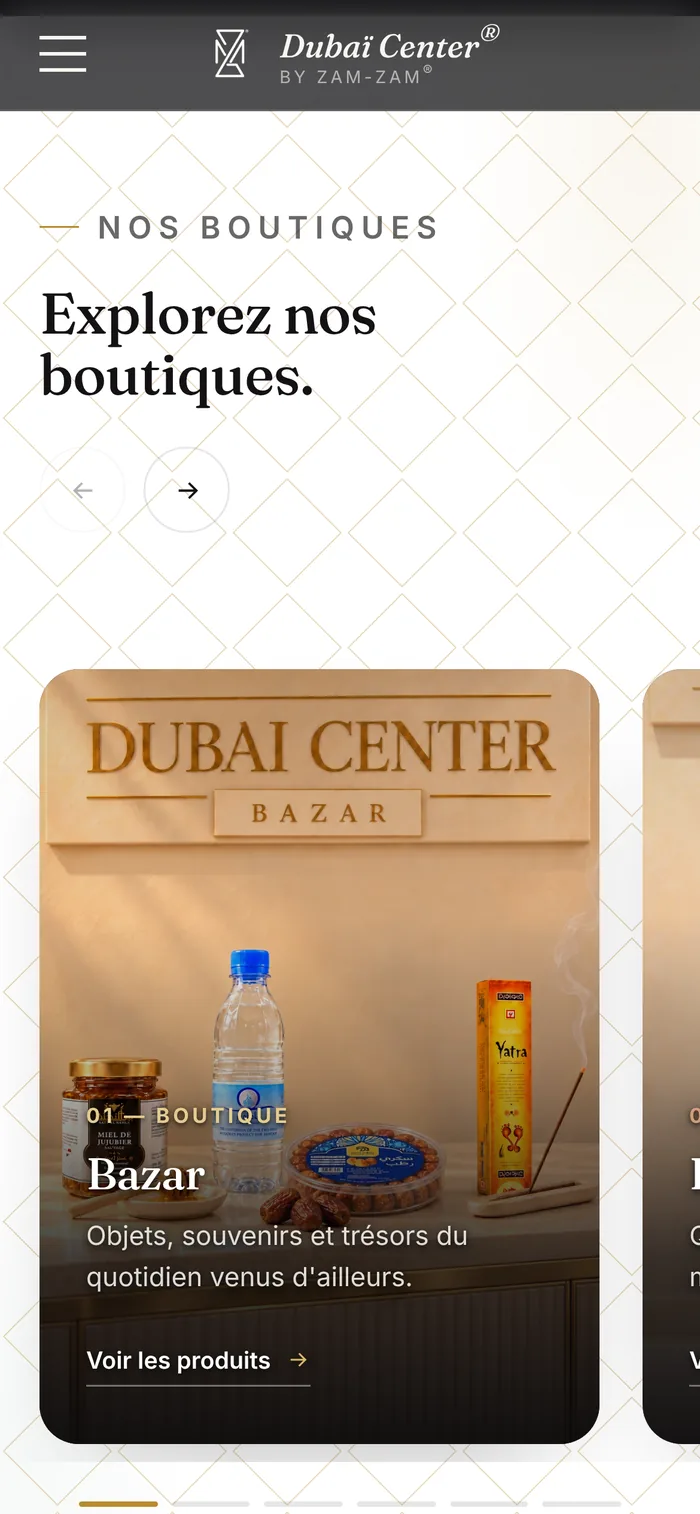
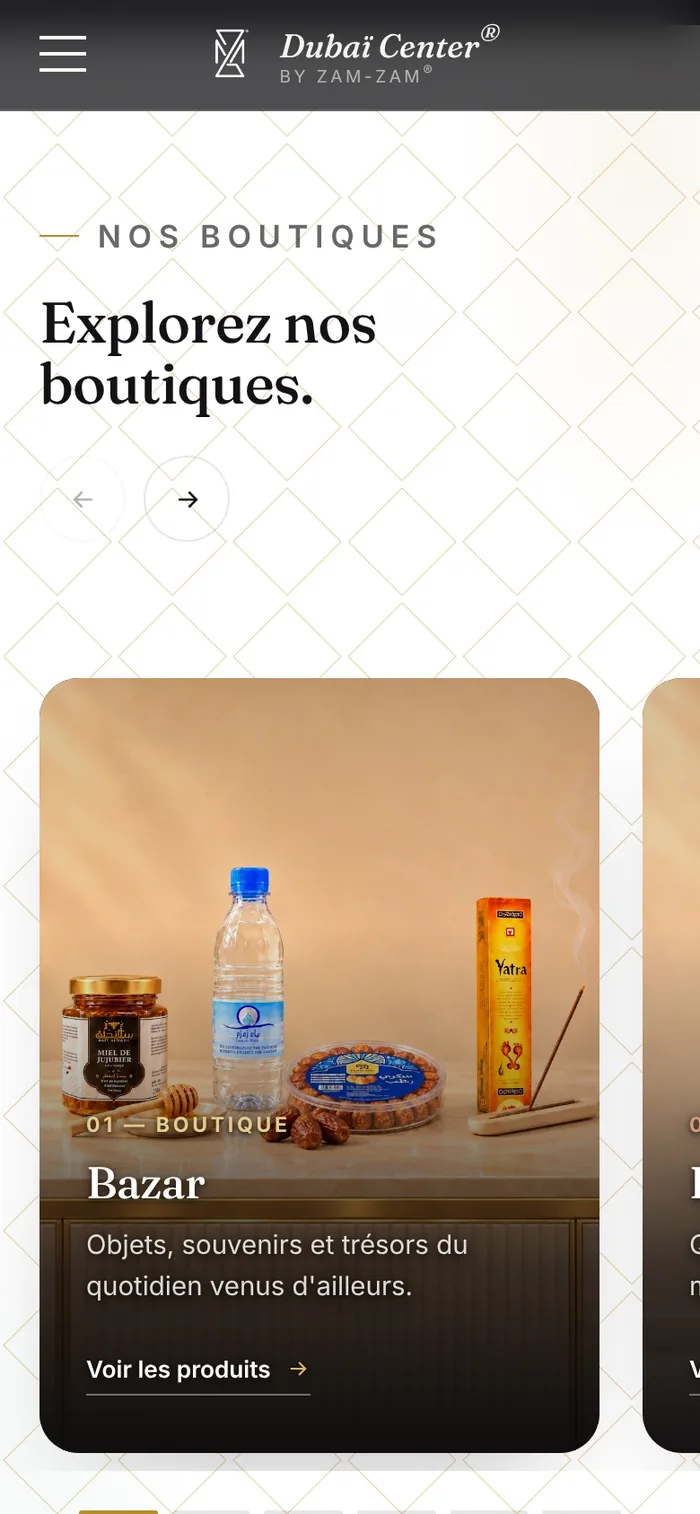
Atelier Heure card in light, new Dubaï Center capture, versioned CSS/JS (#32)
- The Atelier Heure card turns light like Maison Sable (porcelain
  #efece6, ink text, bronze amber #a3510b at 4.8:1), so the projects
  section has two dark cards and two light ones. The site screenshot
  keeps its dark browser frame.
- dc-m-boutiques.webp is recaptured from the Dubaï Center site with the
  retouched boutique photos (same framing, 700x1514).
- The pages now load home.css/home.js and main.css/main.js with a
  ?v=20261120 suffix, so a browser that fetches a new page cannot reuse
  styles cached from before an update.

The "Voir le site" button is in every card at 1920, 1536, 1440, 1366,
1280, 1024, 820, 768 and 390 px wide.

Claude-Session: https://claude.ai/code/session_01EUDBSK1QjmhVuumJZYRJZB

diff --git a/index.html b/index.html
@@ -22,7 +22,7 @@
 <link rel="preconnect" href="https://fonts.gstatic.com" crossorigin>
 <link rel="stylesheet" href="https://fonts.googleapis.com/css2?family=Instrument+Serif:ital@0;1&family=Inter+Tight:wght@400;500;600;700&display=swap">
 <link rel="preload" as="image" href="assets/img/portrait.webp" type="image/webp">
-<link rel="stylesheet" href="assets/css/home.css">
+<link rel="stylesheet" href="assets/css/home.css?v=20261120">
 <script type="application/ld+json">
 {"@context":"https://schema.org","@type":"Person","name":"Ouweis Mansouri","jobTitle":"Chargé de marketing digital & web designer","url":"https://ouweisbts.github.io/Ouweismansouri/","email":"mailto:mansouriouweis@gmail.com","address":{"@type":"PostalAddress","addressLocality":"Villeurbanne","addressCountry":"FR"},"sameAs":["https://www.linkedin.com/in/ouweis-mansouri-411341230/","https://www.instagram.com/om7_you/","https://github.com/ouweisbts"]}
 </script>
@@ -138,7 +138,7 @@
         </div>
       </article>
 
-      <article class="card" data-reveal style="--bg:#050505;--fg:#ffffff;--accent:#f59e0b">
+      <article class="card card--light" data-reveal style="--bg:#efece6;--fg:#14110d;--accent:#a3510b">
         <div class="card__link" data-cursor>
           <div class="card__media">
             <div class="browser"><div class="browser__bar"><i></i><i></i><i></i><span>atelier-heure</span></div><img src="assets/img/work/ah-col-sahara.webp" alt="Collection Héritage Sahara sur le site Atelier Heure" width="1800" height="1125" loading="lazy"></div>
@@ -269,6 +269,6 @@
 <script src="assets/vendor/gsap.min.js" defer></script>
 <script src="assets/vendor/ScrollTrigger.min.js" defer></script>
 <script src="assets/vendor/lenis.min.js" defer></script>
-<script src="assets/js/home.js" defer></script>
+<script src="assets/js/home.js?v=20261120" defer></script>
 </body>
 </html>

diff --git a/projets/atelier-heure.html b/projets/atelier-heure.html
@@ -20,7 +20,7 @@
 <link rel="preconnect" href="https://fonts.googleapis.com">
 <link rel="preconnect" href="https://fonts.gstatic.com" crossorigin>
 <link rel="stylesheet" href="https://fonts.googleapis.com/css2?family=Instrument+Serif:ital@0;1&family=Inter+Tight:wght@300;400;500;600&family=JetBrains+Mono:wght@400&display=swap&family=Bodoni+Moda:ital,opsz,wght@0,6..96,700;0,6..96,900;1,6..96,400&family=Inter:wght@300;700">
-<link rel="stylesheet" href="../assets/css/main.css">
+<link rel="stylesheet" href="../assets/css/main.css?v=20261120">
 </head>
 <body class="case" style="--c-bg:#000;--c-accent:#f59e0b;--c-soft:#050505">
 <a class="skip" href="#main">Aller au contenu</a>
@@ -136,6 +136,6 @@
 <script src="../assets/vendor/gsap.min.js" defer></script>
 <script src="../assets/vendor/ScrollTrigger.min.js" defer></script>
 <script src="../assets/vendor/lenis.min.js" defer></script>
-<script src="../assets/js/main.js" defer></script>
+<script src="../assets/js/main.js?v=20261120" defer></script>
 </body>
 </html>

diff --git a/projets/anas-food.html b/projets/anas-food.html
@@ -20,7 +20,7 @@
 <link rel="preconnect" href="https://fonts.googleapis.com">
 <link rel="preconnect" href="https://fonts.gstatic.com" crossorigin>
 <link rel="stylesheet" href="https://fonts.googleapis.com/css2?family=Instrument+Serif:ital@0;1&family=Inter+Tight:wght@300;400;500;600&family=JetBrains+Mono:wght@400&display=swap&family=Big+Shoulders+Display:wght@900&family=Bricolage+Grotesque:opsz,wght@12..96,500">
-<link rel="stylesheet" href="../assets/css/main.css">
+<link rel="stylesheet" href="../assets/css/main.css?v=20261120">
 </head>
 <body class="case" style="--c-bg:#120b06;--c-accent:#ff8110;--c-soft:#17110c">
 <a class="skip" href="#main">Aller au contenu</a>
@@ -142,6 +142,6 @@
 <script src="../assets/vendor/gsap.min.js" defer></script>
 <script src="../assets/vendor/ScrollTrigger.min.js" defer></script>
 <script src="../assets/vendor/lenis.min.js" defer></script>
-<script src="../assets/js/main.js" defer></script>
+<script src="../assets/js/main.js?v=20261120" defer></script>
 </body>
 </html>

diff --git a/projets/maison-sable.html b/projets/maison-sable.html
@@ -20,7 +20,7 @@
 <link rel="preconnect" href="https://fonts.googleapis.com">
 <link rel="preconnect" href="https://fonts.gstatic.com" crossorigin>
 <link rel="stylesheet" href="https://fonts.googleapis.com/css2?family=Instrument+Serif:ital@0;1&family=Inter+Tight:wght@300;400;500;600&family=JetBrains+Mono:wght@400&display=swap&family=Bodoni+Moda:ital,opsz,wght@0,6..96,400;1,6..96,400&family=Manrope:wght@400;600">
-<link rel="stylesheet" href="../assets/css/main.css">
+<link rel="stylesheet" href="../assets/css/main.css?v=20261120">
 </head>
 <body class="case" style="--c-bg:#d9c3a1;--c-accent:#d9825a;--c-soft:#ece2d1">
 <a class="skip" href="#main">Aller au contenu</a>
@@ -128,6 +128,6 @@
 <script src="../assets/vendor/gsap.min.js" defer></script>
 <script src="../assets/vendor/ScrollTrigger.min.js" defer></script>
 <script src="../assets/vendor/lenis.min.js" defer></script>
-<script src="../assets/js/main.js" defer></script>
+<script src="../assets/js/main.js?v=20261120" defer></script>
 </body>
 </html>

diff --git a/projets/casa-blanca.html b/projets/casa-blanca.html
@@ -20,7 +20,7 @@
 <link rel="preconnect" href="https://fonts.googleapis.com">
 <link rel="preconnect" href="https://fonts.gstatic.com" crossorigin>
 <link rel="stylesheet" href="https://fonts.googleapis.com/css2?family=Instrument+Serif:ital@0;1&family=Inter+Tight:wght@300;400;500;600&family=JetBrains+Mono:wght@400&display=swap&family=Cormorant+Garamond:ital,wght@0,300;1,300&family=Plus+Jakarta+Sans:wght@300">
-<link rel="stylesheet" href="../assets/css/main.css">
+<link rel="stylesheet" href="../assets/css/main.css?v=20261120">
 </head>
 <body class="case" style="--c-bg:#0D0D0D;--c-accent:#D4AF37;--c-soft:#161210">
 <a class="skip" href="#main">Aller au contenu</a>
@@ -136,6 +136,6 @@
 <script src="../assets/vendor/gsap.min.js" defer></script>
 <script src="../assets/vendor/ScrollTrigger.min.js" defer></script>
 <script src="../assets/vendor/lenis.min.js" defer></script>
-<script src="../assets/js/main.js" defer></script>
+<script src="../assets/js/main.js?v=20261120" defer></script>
 </body>
 </html>

diff --git a/projets/dubai-center.html b/projets/dubai-center.html
@@ -20,7 +20,7 @@
 <link rel="preconnect" href="https://fonts.googleapis.com">
 <link rel="preconnect" href="https://fonts.gstatic.com" crossorigin>
 <link rel="stylesheet" href="https://fonts.googleapis.com/css2?family=Instrument+Serif:ital@0;1&family=Inter+Tight:wght@300;400;500;600&family=JetBrains+Mono:wght@400&display=swap&family=Fraunces:opsz,wght@9..144,500&family=Inter:wght@400">
-<link rel="stylesheet" href="../assets/css/main.css">
+<link rel="stylesheet" href="../assets/css/main.css?v=20261120">
 </head>
 <body class="case" style="--c-bg:#100d09;--c-accent:#d9b968;--c-soft:#141210">
 <a class="skip" href="#main">Aller au contenu</a>
@@ -132,6 +132,6 @@
 <script src="../assets/vendor/gsap.min.js" defer></script>
 <script src="../assets/vendor/ScrollTrigger.min.js" defer></script>
 <script src="../assets/vendor/lenis.min.js" defer></script>
-<script src="../assets/js/main.js" defer></script>
+<script src="../assets/js/main.js?v=20261120" defer></script>
 </body>
 </html>
